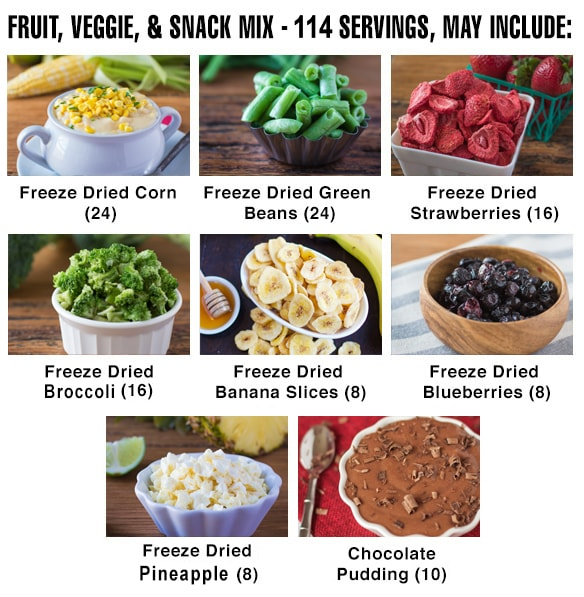
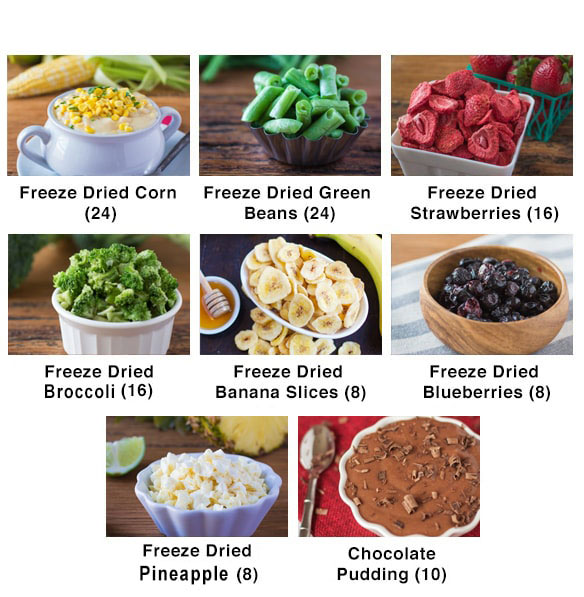
FFP-1431 Update images to reflect correct product name

Changed region(s): [[0.0, 0.0, 0.9863, 0.0905], [0.6473, 0.4824, 0.6781, 0.5126]]

diff --git a/templates/products/F4P-fruitveggiesnack-pid128.php b/templates/products/F4P-fruitveggiesnack-pid128.php
@@ -57,6 +57,20 @@ if(Customer::havePurchased($_SESSION['productId']) !== TRUE) {
 			margin-bottom: 5px;
 			margin-top: 15px;
 			text-align: center;
+			background-color:white;
+			border-radius: 15px;
+		}
+		#belcher-box .timer-heading {
+			background-color:#f7f7f7;
+			color:#636363;
+			padding:5px 0 0 2px;
+			border-radius: 15px 15px 0 0;
+			font-weight: bold;
+		}
+		#belcher-box .timer-link {
+			font-size: 16px;
+			color:blue;
+			text-decoration:underline;
 		}
 		#belcher-box .timer-box a {
 			/* [disabled]text-shadow: 2px 2px #000000; */
@@ -163,7 +177,9 @@ if(Customer::havePurchased($_SESSION['productId']) !== TRUE) {
 			<div class="box-title">Exclusive Offer for Food4Patriots Customers...</div>
 			<div class="box-body">
 				<div class="timer-box">
-					<a id="fancybox-veggies" href="javascript:void();" onclick="showTimerModal();"><img src="/media/images/f4p/f4p-product-img-snack-04.jpg" width="360" height="230" alt="3 Month Food Supply">
+					<div class="timer-heading">Fruit, Veggie and Snack Mix</div>
+					<a id="fancybox-veggies" href="javascript:void();" onclick="showTimerModal();"><img src="/media/images/f4p/f4p-product-img-snack-05.jpg" alt="Fruit, Veggie and Snack Mix">
+						<div class="timer-link">Click Here For Contents And Servings</div>
 						<div id="timer">10:00</div></a>
 				</div>
 				<p><?php echo $customerDataObj->firstName;?>,
@@ -201,10 +217,12 @@ if(Customer::havePurchased($_SESSION['productId']) !== TRUE) {
 	</script>
 	<div id="timerModal" class="modal fade bs-example-modal-lg" tabindex="-1" role="dialog" aria-labelledby="myLargeModalLabel" aria-hidden="true">
 		<div class="modal-dialog modal-lg" style="width:700px;height:750px;">
-			<div class="modal-content" style="background-image:url(/media/images/f4p/f4p-fvs-mix-details-01.jpg);background-size: 700px;background-repeat: no-repeat;background-position: bottom;">
+			<div class="modal-content" style="background-image:url(/media/images/f4p/f4p-fvs-mix-details-01.jpg);background-size: 700px;background-repeat: no-repeat;background-position: top;">
 				<div style="text-align:center;padding:10px;width:700px;height:750px;">
 					<div class="glyphicon glyphicon-remove-circle" style="float:right;cursor:pointer;" onclick="hideTimerModal();"></div>
+					<div style="font-family:Impact;text-transform:uppercase;font-size:28px;">Fruit, Veggie and Snack Mix – 114 Servings, May Include:</div>
 				</div>
+
 			</div>
 		</div>
 	</div>

diff --git a/checkout/fruitveggie/index.php b/checkout/fruitveggie/index.php
@@ -154,10 +154,13 @@ margin-top: 109px;" src="/assets/images/misc/speaker_off.gif" onclick="toggleAud
 			}
 		</script>
 		<div id="productModal" class="modal fade bs-example-modal-lg" tabindex="-1" role="dialog" aria-labelledby="myLargeModalLabel" aria-hidden="true">
-			<div class="modal-dialog modal-lg">
-				<div class="modal-content">
-					<div class="glyphicon glyphicon-remove-circle" style="float:right;cursor:pointer;padding:10px;" onclick="hideProductModal();"></div>
-					<img class="img-responsive center-block" src="/media/images/f4p/f4p-fvs-mix-details-01.jpg">
+			<div class="modal-dialog modal-lg" style="width:700px;height:750px;">
+				<div class="modal-content" style="background-image:url(/media/images/f4p/f4p-fvs-mix-details-01.jpg);background-size: 700px;background-repeat: no-repeat;background-position: top;">
+					<div style="text-align:center;padding:10px;width:700px;height:750px;">
+						<div class="glyphicon glyphicon-remove-circle" style="float:right;cursor:pointer;" onclick="hideTimerModal();"></div>
+						<div style="font-family:Impact;text-transform:uppercase;font-size:28px;">Fruit, Veggie and Snack Mix – 114 Servings, May Include:</div>
+					</div>
+
 				</div>
 			</div>
 		</div>
